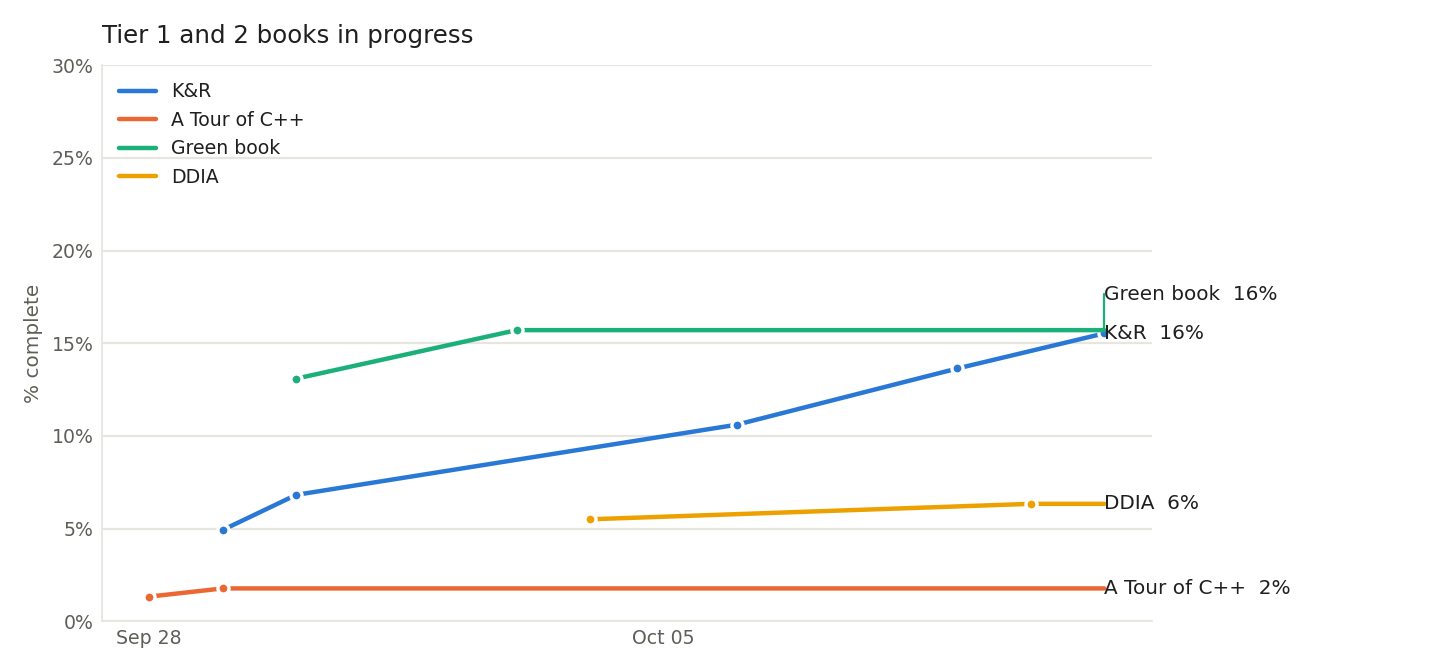
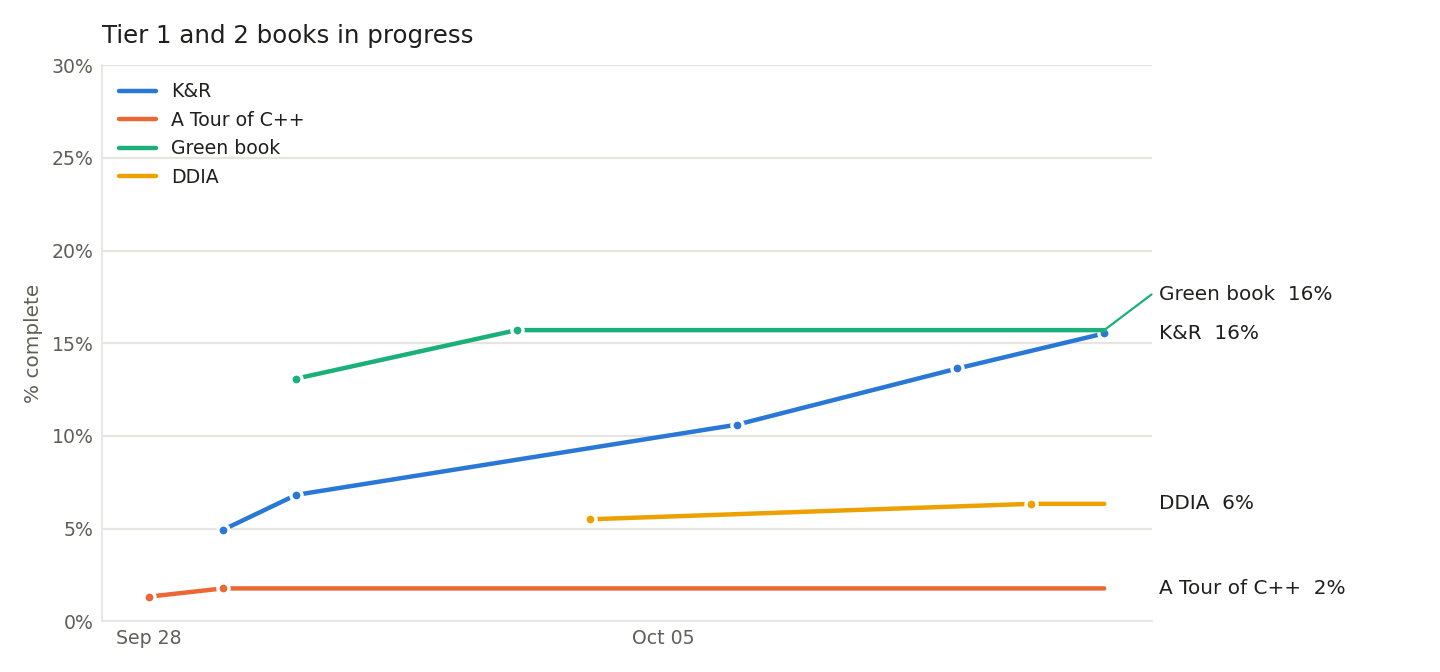
Fix leader-line width on progress chart end labels

Changed region(s): [[0.75, 0.4062, 0.9375, 0.5], [0.7812, 0.8438, 0.9375, 0.9062], [0.7812, 0.7188, 0.875, 0.7812]]

diff --git a/scripts/plot_progress.py b/scripts/plot_progress.py
@@ -54,19 +54,19 @@ for name, color, _ in BOOKS:
 top = max(100 * p[-1][1] / p[-1][2] for p in series.values())
 ax.set_ylim(0, min(100, (int(top // 10) + 2) * 10))  # headroom above the leader; grows toward 100 as books finish
 # End labels: sort by value, push apart to a minimum gap, and connect displaced ones to the line end with a leader.
-from datetime import timedelta
 ymax = ax.get_ylim()[1]
 gap = ymax * 0.07
 ends.sort()
 placed = []
 for y, _, _ in ends:
     placed.append(y if not placed else max(y, placed[-1] + gap))
-x0, x1 = ax.get_xlim()
-dx = timedelta(days=(x1 - x0) * 0.045)
+x0, x1 = ax.get_xlim()  # matplotlib date numbers (float days)
+xt = mdates.date2num(today)
+dx = (x1 - x0) * 0.045
 for (y, label, color), ly in zip(ends, placed):
     if abs(ly - y) > 1e-9:
-        ax.plot([today, today + dx], [y, ly], color=color, lw=1, clip_on=False, solid_capstyle="round")
-    ax.text(today + dx * 1.15, ly, label, va="center", fontsize=9, color=TEXT, clip_on=False)
+        ax.plot([xt, xt + dx], [y, ly], color=color, lw=1, clip_on=False, solid_capstyle="round")
+    ax.text(xt + dx * 1.15, ly, label, va="center", fontsize=9, color=TEXT, clip_on=False)
 ax.set_xlim(x0, x1)
 ax.set_ylabel("% complete", color=TEXT2, fontsize=9)
 ax.yaxis.set_major_formatter(lambda v, _: f"{v:.0f}%")
